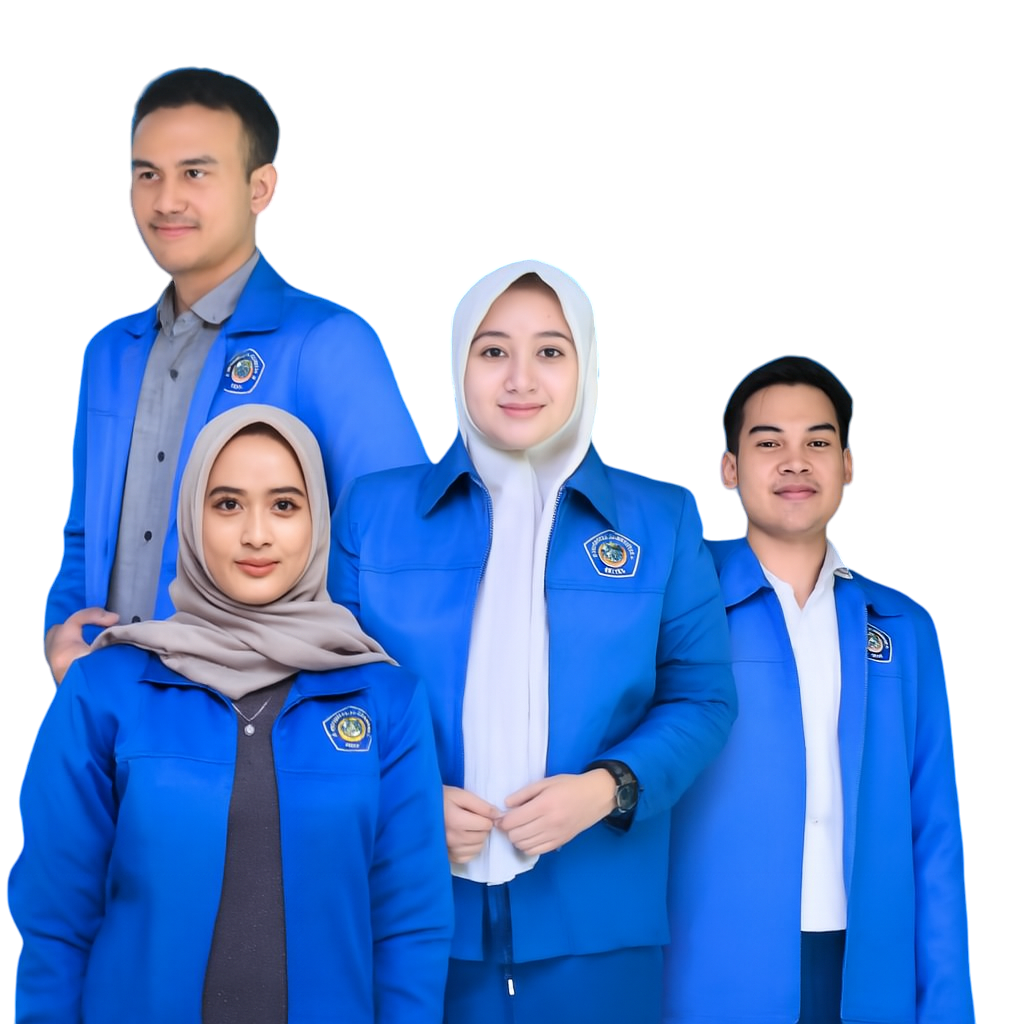
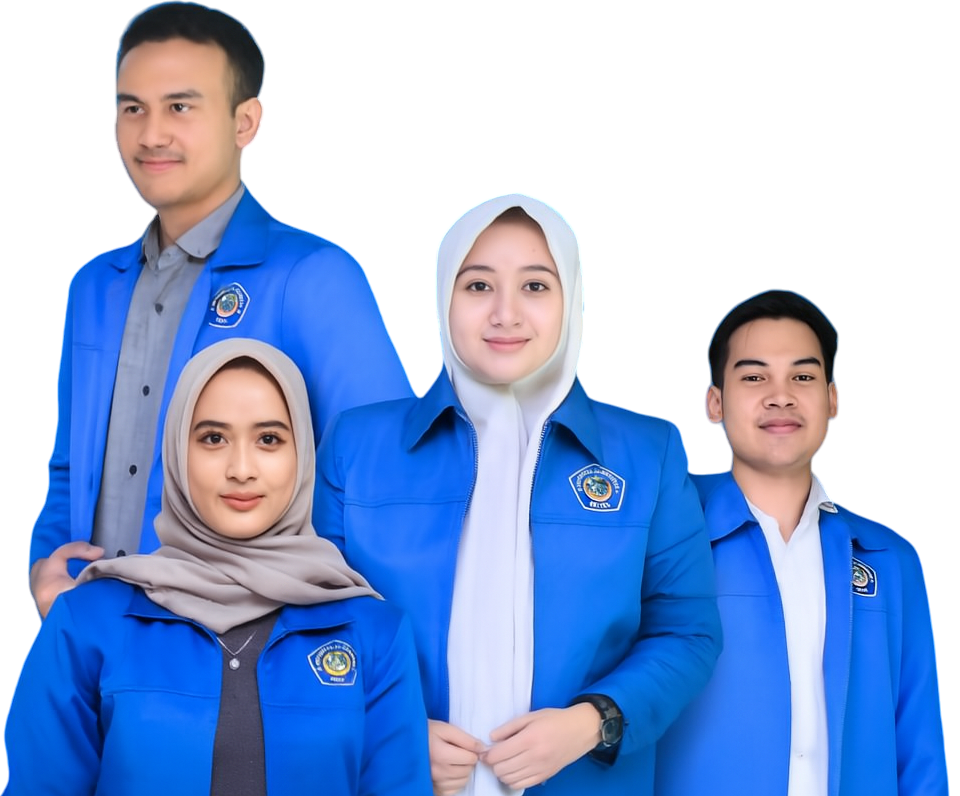
refactor(views): remove breadcrumbs and improve carousel layout
- Remove redundant breadcrumb navigation from profile and repository views
- Update carousel layout with better alignment and alt text
- Change reset button text from icon to label in repository list

diff --git a/resources/views/components/carousel.blade.php b/resources/views/components/carousel.blade.php
@@ -24,9 +24,9 @@
                               </div>
                           </div>
                       </div>
-                      <div class="col-lg-5 animated fadeInRight">
+                      <div class="col-lg-5 animated fadeInRight d-flex align-items-center justify-content-center">
                           <div class="calrousel-img" style="object-fit: cover;">
-                              <img src="{{ asset('img/carousel-unival.png') }}" class="img-fluid w-100" alt="">
+                              <img src="{{ asset('img/carousel-unival.png') }}" class="img-fluid w-100" alt="unival">
                           </div>
                       </div>
                   </div>
@@ -37,9 +37,9 @@
           <div class="carousel-caption">
               <div class="container">
                   <div class="row gy-4 gy-lg-0 gx-0 gx-lg-5 align-items-center">
-                      <div class="col-lg-5 animated fadeInLeft">
+                      <div class="col-lg-5 animated fadeInLeft d-flex align-items-center justify-content-center">
                           <div class="calrousel-img">
-                              <img src="{{ asset('img/carousel-unival.png') }}" class="img-fluid w-100" alt="">
+                              <img src="{{ asset('img/carousel-unival.png') }}" class="img-fluid w-100" alt="unival">
                           </div>
                       </div>
                       <div class="col-lg-7 animated fadeInRight">

diff --git a/resources/views/livewire/repository-list.blade.php b/resources/views/livewire/repository-list.blade.php
@@ -5,13 +5,6 @@
                 <h3>Repository Lists</h3>
                 <p class="text-subtitle text-muted">All Repositories data listed.</p>
             </div>
-            <div class="order-first col-12 col-md-6 order-md-2">
-                <nav aria-label="breadcrumb" class="breadcrumb-header float-start float-lg-end">
-                    <ol class="breadcrumb">
-                        <li class="breadcrumb-item"><a href="{{ route('repository.index') }}">Repositories</a></li>
-                    </ol>
-                </nav>
-            </div>
         </div>
     </div>
     <div class="card">
@@ -56,7 +49,7 @@
                 </div>
                 <div class="mt-3 col-12">
                     <button class="btn btn-primary w-100 btn-sm" wire:click='resetInput'>
-                        <i class="bi bi-arrow-clockwise"></i>
+                        <span>Reset</span>
                     </button>
                 </div>
             </div>

diff --git a/resources/views/livewire/repository-form.blade.php b/resources/views/livewire/repository-form.blade.php
@@ -5,14 +5,6 @@
                 <h3>Repository Forms</h3>
                 <p class="text-subtitle text-muted">Form Repository data.</p>
             </div>
-            <div class="order-first col-12 col-md-6 order-md-2">
-                <nav aria-label="breadcrumb" class="breadcrumb-header float-start float-lg-end">
-                    <ol class="breadcrumb">
-                        <li class="breadcrumb-item"><a href="{{ route('repository.index') }}">Repositories</a></li>
-                        <li class="breadcrumb-item"><a href="{{ url()->current() }}">Form</a></li>
-                    </ol>
-                </nav>
-            </div>
         </div>
     </div>
     {{-- Meta Data Form --}}

diff --git a/resources/views/livewire/profile.blade.php b/resources/views/livewire/profile.blade.php
@@ -5,13 +5,6 @@
                 <h3>Profile</h3>
                 <p class="text-subtitle text-muted">All data about your account.</p>
             </div>
-            <div class="order-first col-12 col-md-6 order-md-2">
-                <nav aria-label="breadcrumb" class="breadcrumb-header float-start float-lg-end">
-                    <ol class="breadcrumb">
-                        <li class="breadcrumb-item"><a href="{{ route('profile.index') }}">Profile</a></li>
-                    </ol>
-                </nav>
-            </div>
         </div>
     </div>
     <section id="multiple-column-form">
